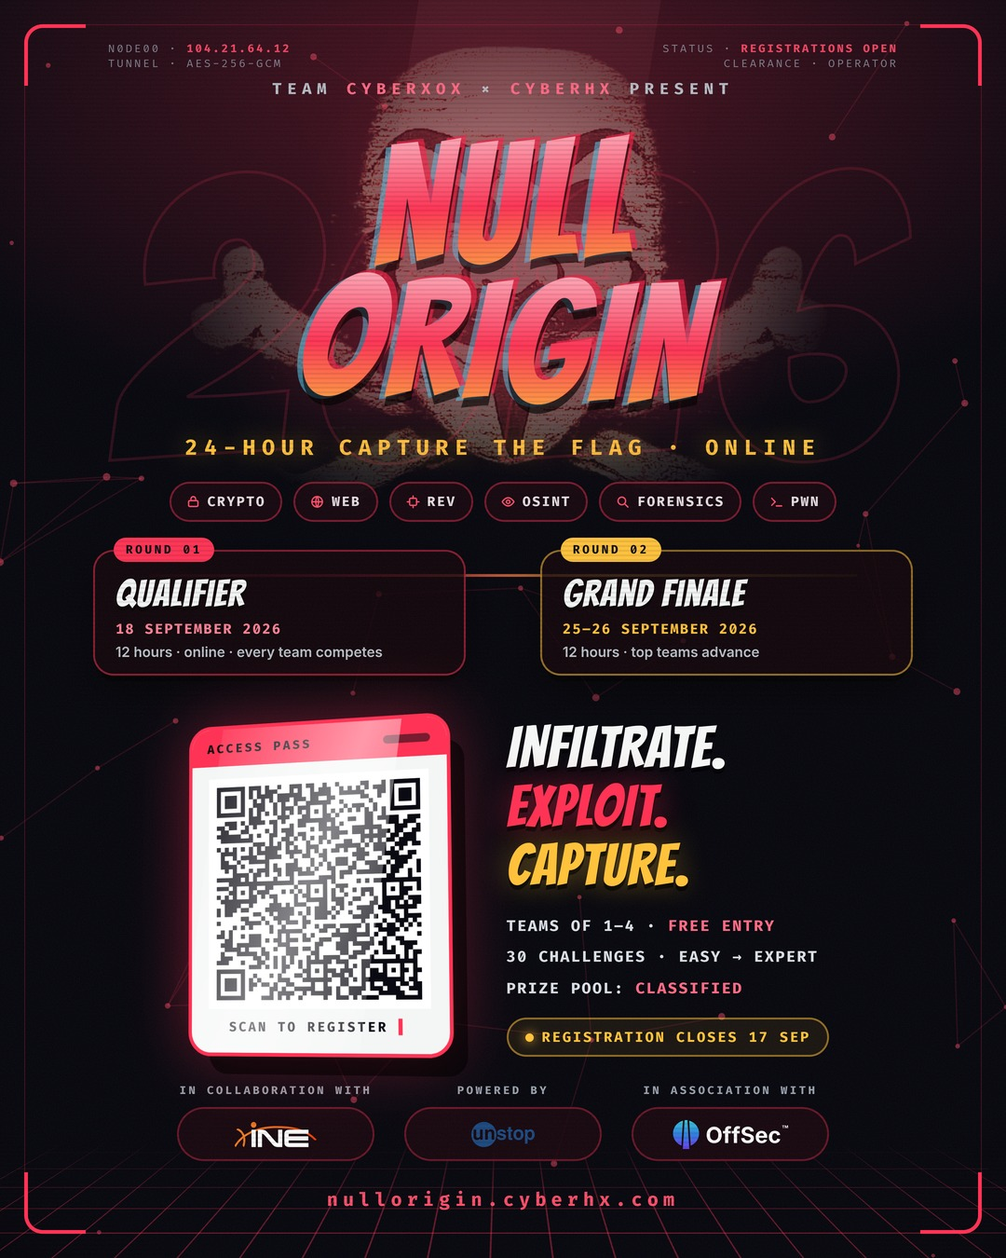
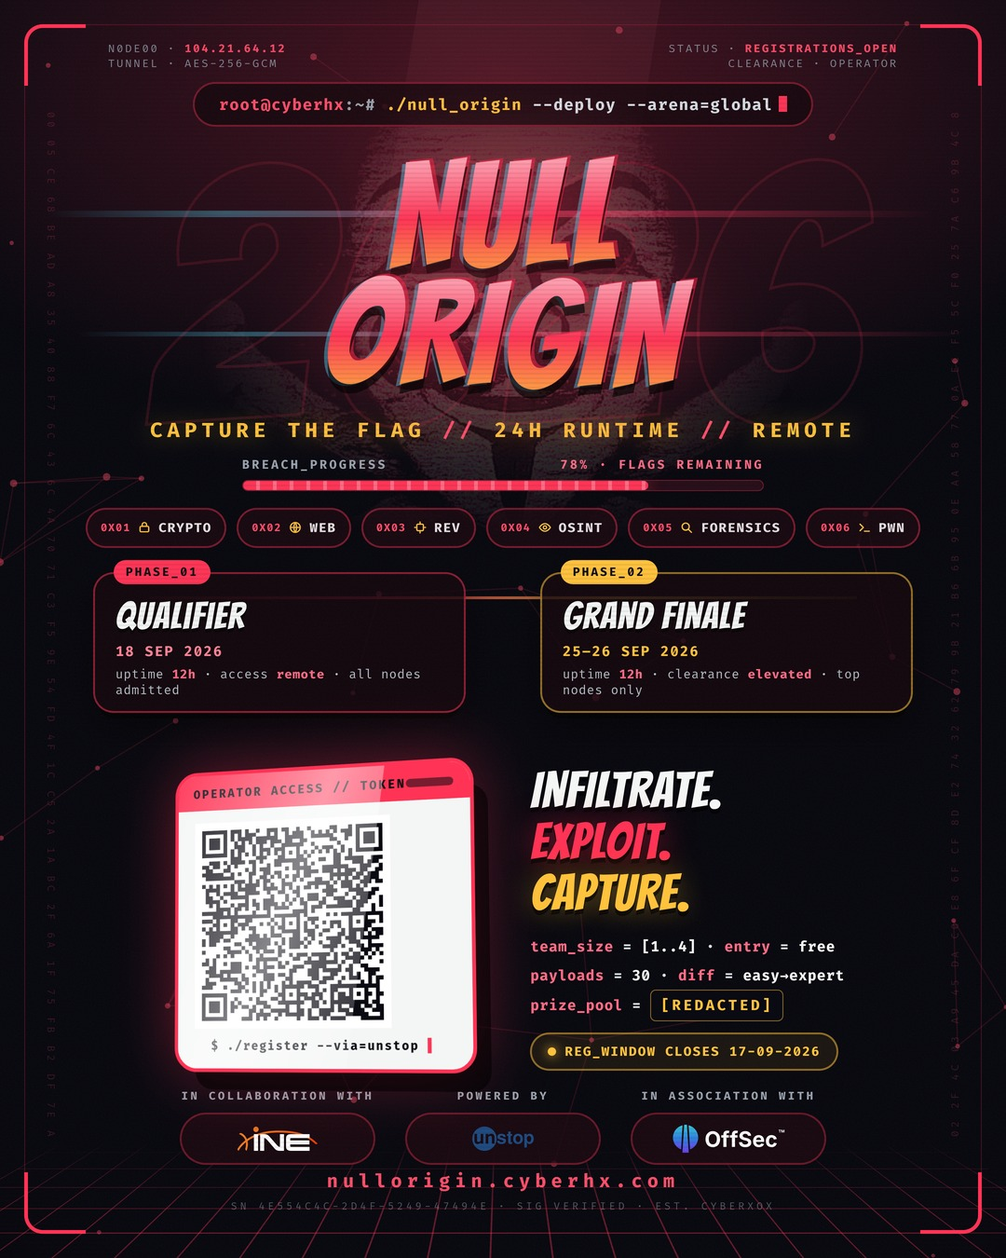
Poster v5 'OPERATOR': full hacker-technical language pass
Every plain label is now in-world: shell-prompt header
(root@cyberhx:~# ./null_origin --deploy --arena=global), tag reads
CTF // 24H RUNTIME // REMOTE, a BREACH_PROGRESS meter at 78%, domains
numbered 0x01-0x06, phase cards speak uptime/access/clearance, facts
as code (team_size=[1..4], payloads=30, prize_pool=[REDACTED] on a
redaction plate), the pass footer runs $ ./register --via=unstop, and
faint hexdump strips line both edges. The footer serial decodes to
NULL-ORIGIN in hex. Skull backdrop quieted to a deep red duotone and
title rotation eased (the v4 'weird' feedback); glitch slice bars
added through the title.

QR verified on 4K/8K masters, WhatsApp JPEG, and after simulated
WhatsApp recompression.

diff --git a/docs/media/poster-registration-source.html b/docs/media/poster-registration-source.html
@@ -13,9 +13,9 @@
 
   /* ═══ ATMOSPHERE ═══ */
   .glow-top { position: absolute; width: 1400px; height: 780px; left: -160px; top: -300px;
-    background: radial-gradient(closest-side, rgba(255,51,85,.30), transparent); }
+    background: radial-gradient(closest-side, rgba(255,51,85,.28), transparent); }
   .shaft { position: absolute; width: 260px; height: 900px; left: 410px; top: -200px;
-    background: linear-gradient(180deg, rgba(255,120,140,.10), transparent 75%);
+    background: linear-gradient(180deg, rgba(255,120,140,.09), transparent 75%);
     transform: skewX(-9deg); }
   .floor { position: absolute; left: -20%; right: -20%; bottom: -40px; height: 520px;
     transform: perspective(700px) rotateX(58deg); transform-origin: 50% 100%;
@@ -26,23 +26,31 @@
     -webkit-mask-image: linear-gradient(to top, #000 40%, transparent 96%); }
   svg.mesh { position: absolute; inset: 0; }
 
-  /* giant duotone skull looming behind the title */
-  .skull-bg { position: absolute; left: 50%; top: 46px; width: 760px; height: 600px;
+  /* skull: quieter, pure red duotone, deeper behind the scene */
+  .skull-bg { position: absolute; left: 50%; top: 84px; width: 820px; height: 620px;
     transform: translateX(-50%); overflow: hidden;
-    -webkit-mask-image: radial-gradient(58% 62% at 50% 40%, #000 40%, transparent 82%); }
-  .skull-bg img { width: 760px; object-fit: cover; object-position: top;
-    filter: grayscale(1) brightness(1.35) contrast(1.12) sepia(1) hue-rotate(-42deg) saturate(3.4);
-    opacity: .34; }
+    -webkit-mask-image: radial-gradient(52% 56% at 50% 40%, #000 30%, transparent 78%); }
+  .skull-bg img { width: 820px; object-fit: cover; object-position: top;
+    filter: grayscale(1) brightness(.9) contrast(1.25) sepia(1) hue-rotate(-58deg) saturate(5);
+    opacity: .20; }
 
-  /* texture: scanlines + noise + vignette */
+  /* faint hexdump strips down both edges */
+  .hexdump { position: absolute; top: 120px; bottom: 130px; width: 20px; z-index: 8;
+    font-family: 'Fira Code', monospace; font-weight: 400; font-size: 11px; line-height: 1.9;
+    color: rgba(255,77,106,.20); writing-mode: vertical-rl; letter-spacing: .32em;
+    text-transform: uppercase; white-space: nowrap; overflow: hidden; }
+  .hexdump.l { left: 44px; }
+  .hexdump.r { right: 44px; transform: rotate(180deg); }
+
+  /* texture */
   .scanlines { position: absolute; inset: 0; z-index: 40; pointer-events: none;
-    background: repeating-linear-gradient(180deg, rgba(0,0,0,.16) 0 2px, transparent 2px 5px);
-    opacity: .5; }
-  .noise { position: absolute; inset: 0; z-index: 41; opacity: .05; }
+    background: repeating-linear-gradient(180deg, rgba(0,0,0,.13) 0 2px, transparent 2px 5px);
+    opacity: .45; }
+  .noise { position: absolute; inset: 0; z-index: 41; opacity: .045; }
   .vignette { position: absolute; inset: 0; z-index: 42;
     background: radial-gradient(120% 105% at 50% 42%, transparent 58%, rgba(0,0,0,.55) 100%); }
 
-  /* HUD frame: corner brackets + telemetry microtext */
+  /* HUD frame + telemetry */
   .hud { position: absolute; inset: 26px; z-index: 45; pointer-events: none; }
   .hud .c { position: absolute; width: 66px; height: 66px; border: 4px solid #ff3355; }
   .hud .tl { top: 0; left: 0; border-right: 0; border-bottom: 0; border-top-left-radius: 20px; }
@@ -51,60 +59,84 @@
   .hud .br { bottom: 0; right: 0; border-left: 0; border-top: 0; border-bottom-right-radius: 20px; }
   .hud .edge { position: absolute; inset: 0; border: 1.5px solid rgba(255,51,85,.22); border-radius: 20px; }
   .tele { position: absolute; z-index: 46; font-family: 'Fira Code', monospace; font-weight: 400;
-    font-size: 12px; letter-spacing: .18em; color: rgba(153,162,173,.75); text-transform: uppercase; }
-  .tele.l { top: 44px; left: 116px; }
+    font-size: 12px; letter-spacing: .16em; color: rgba(153,162,173,.78); text-transform: uppercase; }
+  .tele.l { top: 44px; left: 116px; text-align: left; }
   .tele.r { top: 44px; right: 116px; text-align: right; }
-  .tele b { color: rgba(255,77,106,.9); font-weight: 700; }
+  .tele b { color: rgba(255,77,106,.95); font-weight: 700; }
 
   /* ═══ CONTENT ═══ */
-  .wrap { position: relative; z-index: 30; height: 100%; padding: 84px 72px 0; text-align: center; }
-  .presents { font-family: 'Fira Code', monospace; font-weight: 700; font-size: 17px;
-    letter-spacing: .34em; color: #b8bfc7; text-transform: uppercase; }
-  .presents b { color: #ff6b85; }
+  .wrap { position: relative; z-index: 30; height: 100%; padding: 88px 72px 0; text-align: center; }
 
-  .ghost { position: absolute; left: 50%; top: 132px; transform: translateX(-50%);
-    font-family: 'Bangers', cursive; font-size: 430px; line-height: 1; letter-spacing: .02em;
-    color: transparent; -webkit-text-stroke: 3px rgba(255,51,85,.16); z-index: 1; }
+  /* shell prompt instead of a plain "presents" line */
+  .prompt { display: inline-block; font-family: 'Fira Code', monospace; font-weight: 700;
+    font-size: 17px; letter-spacing: .06em; color: #d7dde3; text-transform: none;
+    background: rgba(20,6,12,.8); border: 2px solid rgba(255,51,85,.4); border-radius: 999px;
+    padding: 11px 26px; }
+  .prompt .u { color: #ff4d6a; } .prompt .p { color: #99a2ad; } .prompt .a { color: #ffc23c; }
+  .prompt .caret { display: inline-block; width: 9px; height: 17px; background: #ff3355;
+    vertical-align: -2px; margin-left: 6px; }
 
-  .titleblock { position: relative; margin-top: 34px; z-index: 5; }
+  .ghost { position: absolute; left: 50%; top: 128px; transform: translateX(-50%);
+    font-family: 'Bangers', cursive; font-size: 390px; line-height: 1; letter-spacing: .02em;
+    color: transparent; -webkit-text-stroke: 3px rgba(255,51,85,.14); z-index: 1; }
+
+  .titleblock { position: relative; margin-top: 26px; z-index: 5; }
   .t-line { position: relative; font-family: 'Bangers', cursive; font-weight: 400;
     text-transform: uppercase; letter-spacing: .03em; line-height: .88; }
-  .t1 { font-size: 178px; transform: rotate(-2deg); }
-  .t2 { font-size: 178px; transform: rotate(1.4deg); margin-top: -8px; }
-  /* chromatic aberration: cyan + red ghosts behind the solid fill */
+  .t1 { font-size: 156px; transform: rotate(-1.2deg); }
+  .t2 { font-size: 156px; transform: rotate(0.8deg); margin-top: -8px; }
   .t-line .cy, .t-line .rd, .t-line .main { display: block; }
   .t-line .cy, .t-line .rd { position: absolute; inset: 0; z-index: -1; }
-  .t-line .cy { color: rgba(64,220,255,.55); transform: translate(-6px, 3px); }
-  .t-line .rd { color: rgba(255,30,70,.65); transform: translate(6px, -3px); }
+  .t-line .cy { color: rgba(64,220,255,.45); transform: translate(-4px, 2px); }
+  .t-line .rd { color: rgba(255,30,70,.55); transform: translate(4px, -2px); }
   .t-line .main {
     background: linear-gradient(180deg, #ffb0be 0%, #ff3355 52%, #ffc23c 108%);
     -webkit-background-clip: text; background-clip: text; -webkit-text-fill-color: transparent;
     filter: drop-shadow(0 10px 0 rgba(0,0,0,.65)) drop-shadow(0 0 44px rgba(255,51,85,.4)); }
+  /* glitch slice bars cutting through the title */
+  .gbar { position: absolute; left: 6%; right: 6%; height: 7px; z-index: 6;
+    background: linear-gradient(90deg, transparent, rgba(64,220,255,.35) 20%, rgba(255,51,85,.5) 60%, transparent);
+    mix-blend-mode: screen; }
+  .gbar.g1 { top: 226px; transform: translateX(-14px); }
+  .gbar.g2 { top: 356px; transform: translateX(18px); height: 5px; }
 
-  .tag { font-family: 'Fira Code', monospace; font-weight: 700; font-size: 23px;
-    letter-spacing: .3em; color: #ffc23c; text-transform: uppercase; margin-top: 20px;
+  .tag { font-family: 'Fira Code', monospace; font-weight: 700; font-size: 22px;
+    letter-spacing: .24em; color: #ffc23c; text-transform: uppercase; margin-top: 18px;
     text-shadow: 0 0 24px rgba(255,194,60,.45); }
+  .tag .sep { color: #ff4d6a; }
 
-  /* six domain chips with drawn icons */
-  .domains { display: flex; justify-content: center; gap: 12px; margin-top: 22px; }
-  .dchip { display: flex; align-items: center; gap: 8px; padding: 10px 16px;
+  /* breach meter */
+  .breach { width: 560px; margin: 14px auto 0; text-align: left; }
+  .breach .bl2 { display: flex; justify-content: space-between; font-family: 'Fira Code', monospace;
+    font-weight: 700; font-size: 13px; letter-spacing: .2em; color: #99a2ad; text-transform: uppercase; }
+  .breach .bl2 b { color: #ff6b85; }
+  .breach .bar { margin-top: 8px; height: 12px; border-radius: 999px; overflow: hidden;
+    background: rgba(255,51,85,.12); border: 1.5px solid rgba(255,51,85,.35); }
+  .breach .fill { width: 78%; height: 100%; border-radius: 999px;
+    background: repeating-linear-gradient(90deg, #ff3355 0 14px, #ff6b85 14px 18px);
+    box-shadow: 0 0 18px rgba(255,51,85,.6); }
+
+  /* hex-numbered domain chips */
+  .domains { display: flex; justify-content: center; gap: 11px; margin-top: 18px; }
+  .dchip { display: flex; align-items: center; gap: 8px; padding: 10px 14px;
     background: rgba(28,8,16,.75); border: 2px solid rgba(255,51,85,.42); border-radius: 999px;
-    font-family: 'Fira Code', monospace; font-weight: 700; font-size: 14.5px;
-    letter-spacing: .12em; color: #e6dfe2; text-transform: uppercase; }
-  .dchip svg { width: 15px; height: 15px; stroke: #ff4d6a; stroke-width: 2.4; fill: none;
+    font-family: 'Fira Code', monospace; font-weight: 700; font-size: 14px;
+    letter-spacing: .08em; color: #e6dfe2; text-transform: uppercase; }
+  .dchip .hx { color: #ff4d6a; font-size: 11.5px; }
+  .dchip svg { width: 14px; height: 14px; stroke: #ffc23c; stroke-width: 2.4; fill: none;
     stroke-linecap: round; stroke-linejoin: round; }
 
-  /* two-round timeline rail */
-  .timeline { position: relative; margin: 30px auto 0; width: 880px; }
+  /* phase timeline */
+  .timeline { position: relative; margin: 26px auto 0; width: 880px; }
   .rail { position: absolute; left: 60px; right: 60px; top: 26px; height: 3px;
     background: linear-gradient(90deg, rgba(255,51,85,.15), rgba(255,51,85,.7), rgba(255,194,60,.7), rgba(255,194,60,.15)); }
   .rounds { display: flex; justify-content: space-between; }
-  .round { width: 400px; text-align: left; background: rgba(20,6,12,.78);
+  .round { width: 400px; text-align: left; background: rgba(20,6,12,.8);
     border: 2.5px solid rgba(255,51,85,.5); border-radius: 22px; padding: 16px 22px 14px;
     box-shadow: 0 12px 0 -6px rgba(0,0,0,.55), 0 18px 40px rgba(0,0,0,.5); position: relative; }
   .round--final { border-color: rgba(255,194,60,.55); }
   .round .rk { position: absolute; top: -15px; left: 20px; font-family: 'Fira Code', monospace;
-    font-weight: 700; font-size: 12.5px; letter-spacing: .22em; text-transform: uppercase;
+    font-weight: 700; font-size: 12.5px; letter-spacing: .18em; text-transform: uppercase;
     background: #ff3355; color: #0a0a12; border-radius: 999px; padding: 5px 13px; }
   .round--final .rk { background: #ffc23c; }
   .round .rn { font-family: 'Bangers', cursive; font-size: 40px; color: #f4f6f5;
@@ -112,60 +144,67 @@
   .round .rd2 { font-family: 'Fira Code', monospace; font-weight: 700; font-size: 15px;
     letter-spacing: .1em; color: #ff8296; text-transform: uppercase; margin-top: 7px; }
   .round--final .rd2 { color: #ffc23c; }
-  .round .rx { font-family: 'Inter', sans-serif; font-weight: 600; font-size: 15px;
-    color: #b8bfc7; margin-top: 5px; }
+  .round .rx { font-family: 'Fira Code', monospace; font-weight: 400; font-size: 13.5px;
+    color: #b8bfc7; margin-top: 6px; letter-spacing: .04em; }
+  .round .rx b { color: #ff6b85; font-weight: 700; }
 
-  /* ═══ ACCESS PASS + intel column ═══ */
-  .bottom { position: absolute; z-index: 60; left: 0; right: 0; bottom: 216px;
+  /* ═══ ACCESS PASS + intel ═══ */
+  .bottom { position: absolute; z-index: 60; left: 0; right: 0; bottom: 200px;
     display: flex; justify-content: center; align-items: center; gap: 54px; perspective: 1100px; }
-  .pass { position: relative; background: #f4f6f5; border-radius: 26px; padding: 0 0 18px;
+  .pass { position: relative; background: #f4f6f5; border-radius: 26px; padding: 0 0 16px;
     transform: rotateY(-12deg) rotateX(3deg) rotate(-1.5deg);
     box-shadow: 20px 24px 0 -5px rgba(0,0,0,.55), 0 0 70px rgba(255,51,85,.4);
     border: 4px solid #ff3355; overflow: hidden; }
   .pass .band { display: flex; align-items: center; justify-content: space-between;
     background: #ff3355; padding: 12px 18px 10px; }
-  .pass .band .bt { font-family: 'Fira Code', monospace; font-weight: 700; font-size: 14px;
-    letter-spacing: .2em; color: #0a0a12; text-transform: uppercase; }
+  .pass .band .bt { font-family: 'Fira Code', monospace; font-weight: 700; font-size: 13.5px;
+    letter-spacing: .16em; color: #0a0a12; text-transform: uppercase; }
   .pass .slot { width: 52px; height: 9px; border-radius: 999px; background: rgba(10,10,18,.55); }
-  .pass img.qr { display: block; width: 252px; height: 252px; margin: 14px 20px 0; }
-  .pass .scan { font-family: 'Fira Code', monospace; font-weight: 700; font-size: 14.5px;
-    letter-spacing: .18em; color: #0a0a12; text-transform: uppercase; text-align: center; margin-top: 10px; }
+  .pass img.qr { display: block; width: 226px; height: 226px; margin: 14px 20px 0; }
+  .pass .scan { font-family: 'Fira Code', monospace; font-weight: 700; font-size: 13.5px;
+    letter-spacing: .1em; color: #0a0a12; text-align: center; margin-top: 10px; }
   .pass .scan i { font-style: normal; color: #ff3355; }
   .pass .shine { position: absolute; top: -40%; left: -70%; width: 70%; height: 200%;
     background: linear-gradient(105deg, transparent, rgba(255,255,255,.5), transparent);
     transform: rotate(8deg) translateX(210px); }
 
-  .intel { text-align: left; max-width: 420px; }
-  .intel .w { font-family: 'Bangers', cursive; font-size: 62px; line-height: 1.02;
+  .intel { text-align: left; max-width: 430px; }
+  .intel .w { font-family: 'Bangers', cursive; font-size: 54px; line-height: 1.02;
     text-transform: uppercase; letter-spacing: .02em; text-shadow: 0 5px 0 rgba(0,0,0,.55); }
   .intel .w1 { color: #f4f6f5; }
   .intel .w2 { color: #ff3355; text-shadow: 0 5px 0 rgba(0,0,0,.55), 0 0 32px rgba(255,51,85,.5); }
   .intel .w3 { color: #ffc23c; text-shadow: 0 5px 0 rgba(0,0,0,.55), 0 0 32px rgba(255,194,60,.45); }
-  .intel .facts { margin-top: 16px; font-family: 'Fira Code', monospace; font-weight: 700;
-    font-size: 16.5px; letter-spacing: .1em; color: #d7dde3; text-transform: uppercase; line-height: 2.05; }
-  .intel .facts b { color: #ff6b85; }
-  .intel .closes { display: inline-flex; align-items: center; gap: 9px; margin-top: 14px;
-    font-family: 'Fira Code', monospace; font-weight: 700; font-size: 15px; letter-spacing: .14em;
+  .intel .facts { margin-top: 15px; font-family: 'Fira Code', monospace; font-weight: 700;
+    font-size: 15.5px; letter-spacing: .04em; color: #d7dde3; line-height: 1.95; }
+  .intel .facts .k { color: #ff6b85; }
+  .intel .facts .v { color: #f4f6f5; }
+  .intel .facts .redact { display: inline-block; background: #0a0a12; color: #ffc23c;
+    border: 1.5px solid rgba(255,194,60,.5); border-radius: 6px; padding: 1px 10px;
+    letter-spacing: .18em; }
+  .intel .closes { display: inline-flex; align-items: center; gap: 9px; margin-top: 12px;
+    font-family: 'Fira Code', monospace; font-weight: 700; font-size: 14px; letter-spacing: .1em;
     text-transform: uppercase; color: #ffc23c; border: 2px solid rgba(255,194,60,.5);
-    background: rgba(255,194,60,.08); border-radius: 999px; padding: 9px 18px; }
+    background: rgba(255,194,60,.08); border-radius: 999px; padding: 9px 17px; }
   .intel .closes .dot { width: 9px; height: 9px; border-radius: 999px; background: #ffc23c;
     box-shadow: 0 0 12px #ffc23c; }
 
-  /* sponsors + footer */
-  .sponsors { position: absolute; z-index: 30; left: 72px; right: 72px; bottom: 104px;
+  /* sponsors + serial footer */
+  .sponsors { position: absolute; z-index: 30; left: 72px; right: 72px; bottom: 100px;
     display: flex; justify-content: center; gap: 32px; }
   .sponsors .col { text-align: center; }
   .sponsors .tier { font-family: 'Fira Code', monospace; font-weight: 700; font-size: 12px;
     letter-spacing: .22em; color: #99a2ad; text-transform: uppercase; white-space: nowrap; }
   .sponsors .chipL { display: flex; align-items: center; justify-content: center;
-    height: 58px; min-width: 212px; padding: 0 28px; margin-top: 10px; background: rgba(28,8,16,.78);
+    height: 56px; min-width: 210px; padding: 0 28px; margin-top: 10px; background: rgba(28,8,16,.78);
     border: 2px solid rgba(255,51,85,.35); border-radius: 999px; }
-  .sponsors img { height: 27px; }
-  .sponsors img.tall { height: 33px; }
+  .sponsors img { height: 26px; }
+  .sponsors img.tall { height: 32px; }
 
-  .footer { position: absolute; z-index: 30; left: 0; right: 0; bottom: 50px; text-align: center;
-    font-family: 'Fira Code', monospace; font-weight: 700; font-size: 20px;
+  .footer { position: absolute; z-index: 30; left: 0; right: 0; bottom: 48px; text-align: center; }
+  .footer .url { font-family: 'Fira Code', monospace; font-weight: 700; font-size: 20px;
     letter-spacing: .26em; color: #ff4d6a; }
+  .footer .sn { font-family: 'Fira Code', monospace; font-weight: 400; font-size: 11px;
+    letter-spacing: .3em; color: rgba(153,162,173,.5); margin-top: 7px; text-transform: uppercase; }
 </style>
 </head>
 <body>
@@ -174,52 +213,62 @@
   <div class="skull-bg"><img src="file:///home/user/NullOrigin_ShadowCopy/public/mask.png"></div>
   <div class="floor"></div>
   <svg class="mesh" width="1080" height="1350" viewBox="0 0 1080 1350"><g id="meshg"></g></svg>
+  <div class="hexdump l" id="hexL"></div>
+  <div class="hexdump r" id="hexR"></div>
 
   <div class="ghost">2026</div>
 
   <div class="wrap">
-    <div class="presents">Team <b>CyberXoX</b> × <b>CyberHX</b> present</div>
+    <div class="prompt"><span class="u">root@cyberhx</span><span class="p">:~#</span> <span class="a">./null_origin</span> --deploy --arena=global<span class="caret"></span></div>
 
     <div class="titleblock">
       <div class="t-line t1"><span class="cy">Null</span><span class="rd">Null</span><span class="main">Null</span></div>
       <div class="t-line t2"><span class="cy">Origin</span><span class="rd">Origin</span><span class="main">Origin</span></div>
     </div>
 
-    <div class="tag">24-Hour Capture The Flag &middot; Online</div>
+    <div class="tag">Capture The Flag <span class="sep">//</span> 24H Runtime <span class="sep">//</span> Remote</div>
+
+    <div class="breach">
+      <div class="bl2"><span>Breach_Progress</span><b>78% · flags remaining</b></div>
+      <div class="bar"><div class="fill"></div></div>
+    </div>
 
     <div class="domains">
-      <span class="dchip"><svg viewBox="0 0 24 24"><rect x="4" y="10" width="16" height="10" rx="2"/><path d="M8 10V7a4 4 0 0 1 8 0v3"/></svg>Crypto</span>
-      <span class="dchip"><svg viewBox="0 0 24 24"><circle cx="12" cy="12" r="9"/><path d="M3 12h18M12 3c3 3.5 3 14 0 18M12 3c-3 3.5-3 14 0 18"/></svg>Web</span>
-      <span class="dchip"><svg viewBox="0 0 24 24"><rect x="6" y="6" width="12" height="12" rx="2"/><path d="M12 2v4M12 18v4M2 12h4M18 12h4"/></svg>Rev</span>
-      <span class="dchip"><svg viewBox="0 0 24 24"><path d="M2 12s4-7 10-7 10 7 10 7-4 7-10 7-10-7-10-7z"/><circle cx="12" cy="12" r="3"/></svg>OSINT</span>
-      <span class="dchip"><svg viewBox="0 0 24 24"><circle cx="10.5" cy="10.5" r="6.5"/><path d="M15.5 15.5 21 21"/></svg>Forensics</span>
-      <span class="dchip"><svg viewBox="0 0 24 24"><path d="M4 6l6 6-6 6M12 19h9"/></svg>Pwn</span>
+      <span class="dchip"><span class="hx">0x01</span><svg viewBox="0 0 24 24"><rect x="4" y="10" width="16" height="10" rx="2"/><path d="M8 10V7a4 4 0 0 1 8 0v3"/></svg>Crypto</span>
+      <span class="dchip"><span class="hx">0x02</span><svg viewBox="0 0 24 24"><circle cx="12" cy="12" r="9"/><path d="M3 12h18M12 3c3 3.5 3 14 0 18M12 3c-3 3.5-3 14 0 18"/></svg>Web</span>
+      <span class="dchip"><span class="hx">0x03</span><svg viewBox="0 0 24 24"><rect x="6" y="6" width="12" height="12" rx="2"/><path d="M12 2v4M12 18v4M2 12h4M18 12h4"/></svg>Rev</span>
+      <span class="dchip"><span class="hx">0x04</span><svg viewBox="0 0 24 24"><path d="M2 12s4-7 10-7 10 7 10 7-4 7-10 7-10-7-10-7z"/><circle cx="12" cy="12" r="3"/></svg>OSINT</span>
+      <span class="dchip"><span class="hx">0x05</span><svg viewBox="0 0 24 24"><circle cx="10.5" cy="10.5" r="6.5"/><path d="M15.5 15.5 21 21"/></svg>Forensics</span>
+      <span class="dchip"><span class="hx">0x06</span><svg viewBox="0 0 24 24"><path d="M4 6l6 6-6 6M12 19h9"/></svg>Pwn</span>
     </div>
 
     <div class="timeline">
       <div class="rail"></div>
       <div class="rounds">
         <div class="round">
-          <span class="rk">Round 01</span>
+          <span class="rk">Phase_01</span>
           <div class="rn">Qualifier</div>
-          <div class="rd2">18 September 2026</div>
-          <div class="rx">12 hours &middot; online &middot; every team competes</div>
+          <div class="rd2">18 Sep 2026</div>
+          <div class="rx">uptime <b>12h</b> · access <b>remote</b> · all nodes admitted</div>
         </div>
         <div class="round round--final">
-          <span class="rk">Round 02</span>
+          <span class="rk">Phase_02</span>
           <div class="rn">Grand Finale</div>
-          <div class="rd2">25&ndash;26 September 2026</div>
-          <div class="rx">12 hours &middot; top teams advance</div>
+          <div class="rd2">25&ndash;26 Sep 2026</div>
+          <div class="rx">uptime <b>12h</b> · clearance <b>elevated</b> · top nodes only</div>
         </div>
       </div>
     </div>
   </div>
 
+  <div class="gbar g1"></div>
+  <div class="gbar g2"></div>
+
   <div class="bottom">
     <div class="pass">
-      <div class="band"><span class="bt">Access Pass</span><span class="slot"></span></div>
+      <div class="band"><span class="bt">Operator Access // Token</span><span class="slot"></span></div>
       <img class="qr" src="unstop-qr.png">
-      <div class="scan">Scan to register <i>&#9612;</i></div>
+      <div class="scan">$ ./register --via=unstop <i>&#9612;</i></div>
       <div class="shine"></div>
     </div>
     <div class="intel">
@@ -227,11 +276,11 @@
       <div class="w w2">Exploit.</div>
       <div class="w w3">Capture.</div>
       <div class="facts">
-        Teams of 1&ndash;4 &middot; <b>Free entry</b><br>
-        30 challenges &middot; Easy &rarr; Expert<br>
-        Prize pool: <b>classified</b>
+        <span class="k">team_size</span> = <span class="v">[1..4]</span> · <span class="k">entry</span> = <span class="v">free</span><br>
+        <span class="k">payloads</span> = <span class="v">30</span> · <span class="k">diff</span> = <span class="v">easy&rarr;expert</span><br>
+        <span class="k">prize_pool</span> = <span class="redact">[REDACTED]</span>
       </div>
-      <div class="closes"><span class="dot"></span>Registration closes 17 Sep</div>
+      <div class="closes"><span class="dot"></span>reg_window closes 17-09-2026</div>
     </div>
   </div>
 
@@ -244,10 +293,13 @@
       <span class="chipL"><img class="tall" src="file:///home/user/NullOrigin_ShadowCopy/public/offsec-logo.svg"></span></div>
   </div>
 
-  <div class="footer">nullorigin.cyberhx.com</div>
+  <div class="footer">
+    <div class="url">nullorigin.cyberhx.com</div>
+    <div class="sn">sn 4E554C4C-2D4F-5249-47494E &middot; sig verified &middot; est. cyberxox</div>
+  </div>
 
   <div class="tele l">n0de00 &middot; <b>104.21.64.12</b><br>tunnel &middot; aes-256-gcm</div>
-  <div class="tele r">status &middot; <b>registrations open</b><br>clearance &middot; operator</div>
+  <div class="tele r">status &middot; <b>registrations_open</b><br>clearance &middot; operator</div>
 
   <div class="scanlines"></div>
   <svg class="noise" width="1080" height="1350"><filter id="n"><feTurbulence type="fractalNoise" baseFrequency="0.8" numOctaves="2" seed="7"/></filter><rect width="1080" height="1350" filter="url(#n)"/></svg>
@@ -255,6 +307,7 @@
   <div class="hud"><span class="edge"></span><span class="c tl"></span><span class="c tr"></span><span class="c bl"></span><span class="c br"></span></div>
 
   <script>
+    // node mesh (seeded)
     const g = document.getElementById('meshg');
     const N = 44, pts = [];
     let seed = 11;
@@ -264,10 +317,17 @@
     for (let i = 0; i < N; i++) for (let j = i + 1; j < N; j++) {
       const dx = pts[i][0]-pts[j][0], dy = pts[i][1]-pts[j][1];
       if (Math.hypot(dx, dy) < 185)
-        out += `<line x1="${pts[i][0]}" y1="${pts[i][1]}" x2="${pts[j][0]}" y2="${pts[j][1]}" stroke="rgba(255,51,85,0.14)" stroke-width="1.4"/>`;
+        out += `<line x1="${pts[i][0]}" y1="${pts[i][1]}" x2="${pts[j][0]}" y2="${pts[j][1]}" stroke="rgba(255,51,85,0.13)" stroke-width="1.4"/>`;
     }
-    for (const [x, y] of pts) out += `<circle cx="${x}" cy="${y}" r="${2 + rnd()*2}" fill="rgba(255,77,106,0.45)"/>`;
+    for (const [x, y] of pts) out += `<circle cx="${x}" cy="${y}" r="${2 + rnd()*2}" fill="rgba(255,77,106,0.42)"/>`;
     g.innerHTML = out;
+
+    // seeded hexdump strips
+    let s2 = 99;
+    const r2 = () => (s2 = (s2 * 16807) % 2147483647) / 2147483647;
+    const hex = (n) => Array.from({length: n}, () => ((r2() * 256) | 0).toString(16).padStart(2, '0')).join(' ');
+    document.getElementById('hexL').textContent = hex(120);
+    document.getElementById('hexR').textContent = hex(120);
   </script>
 </body>
 </html>
